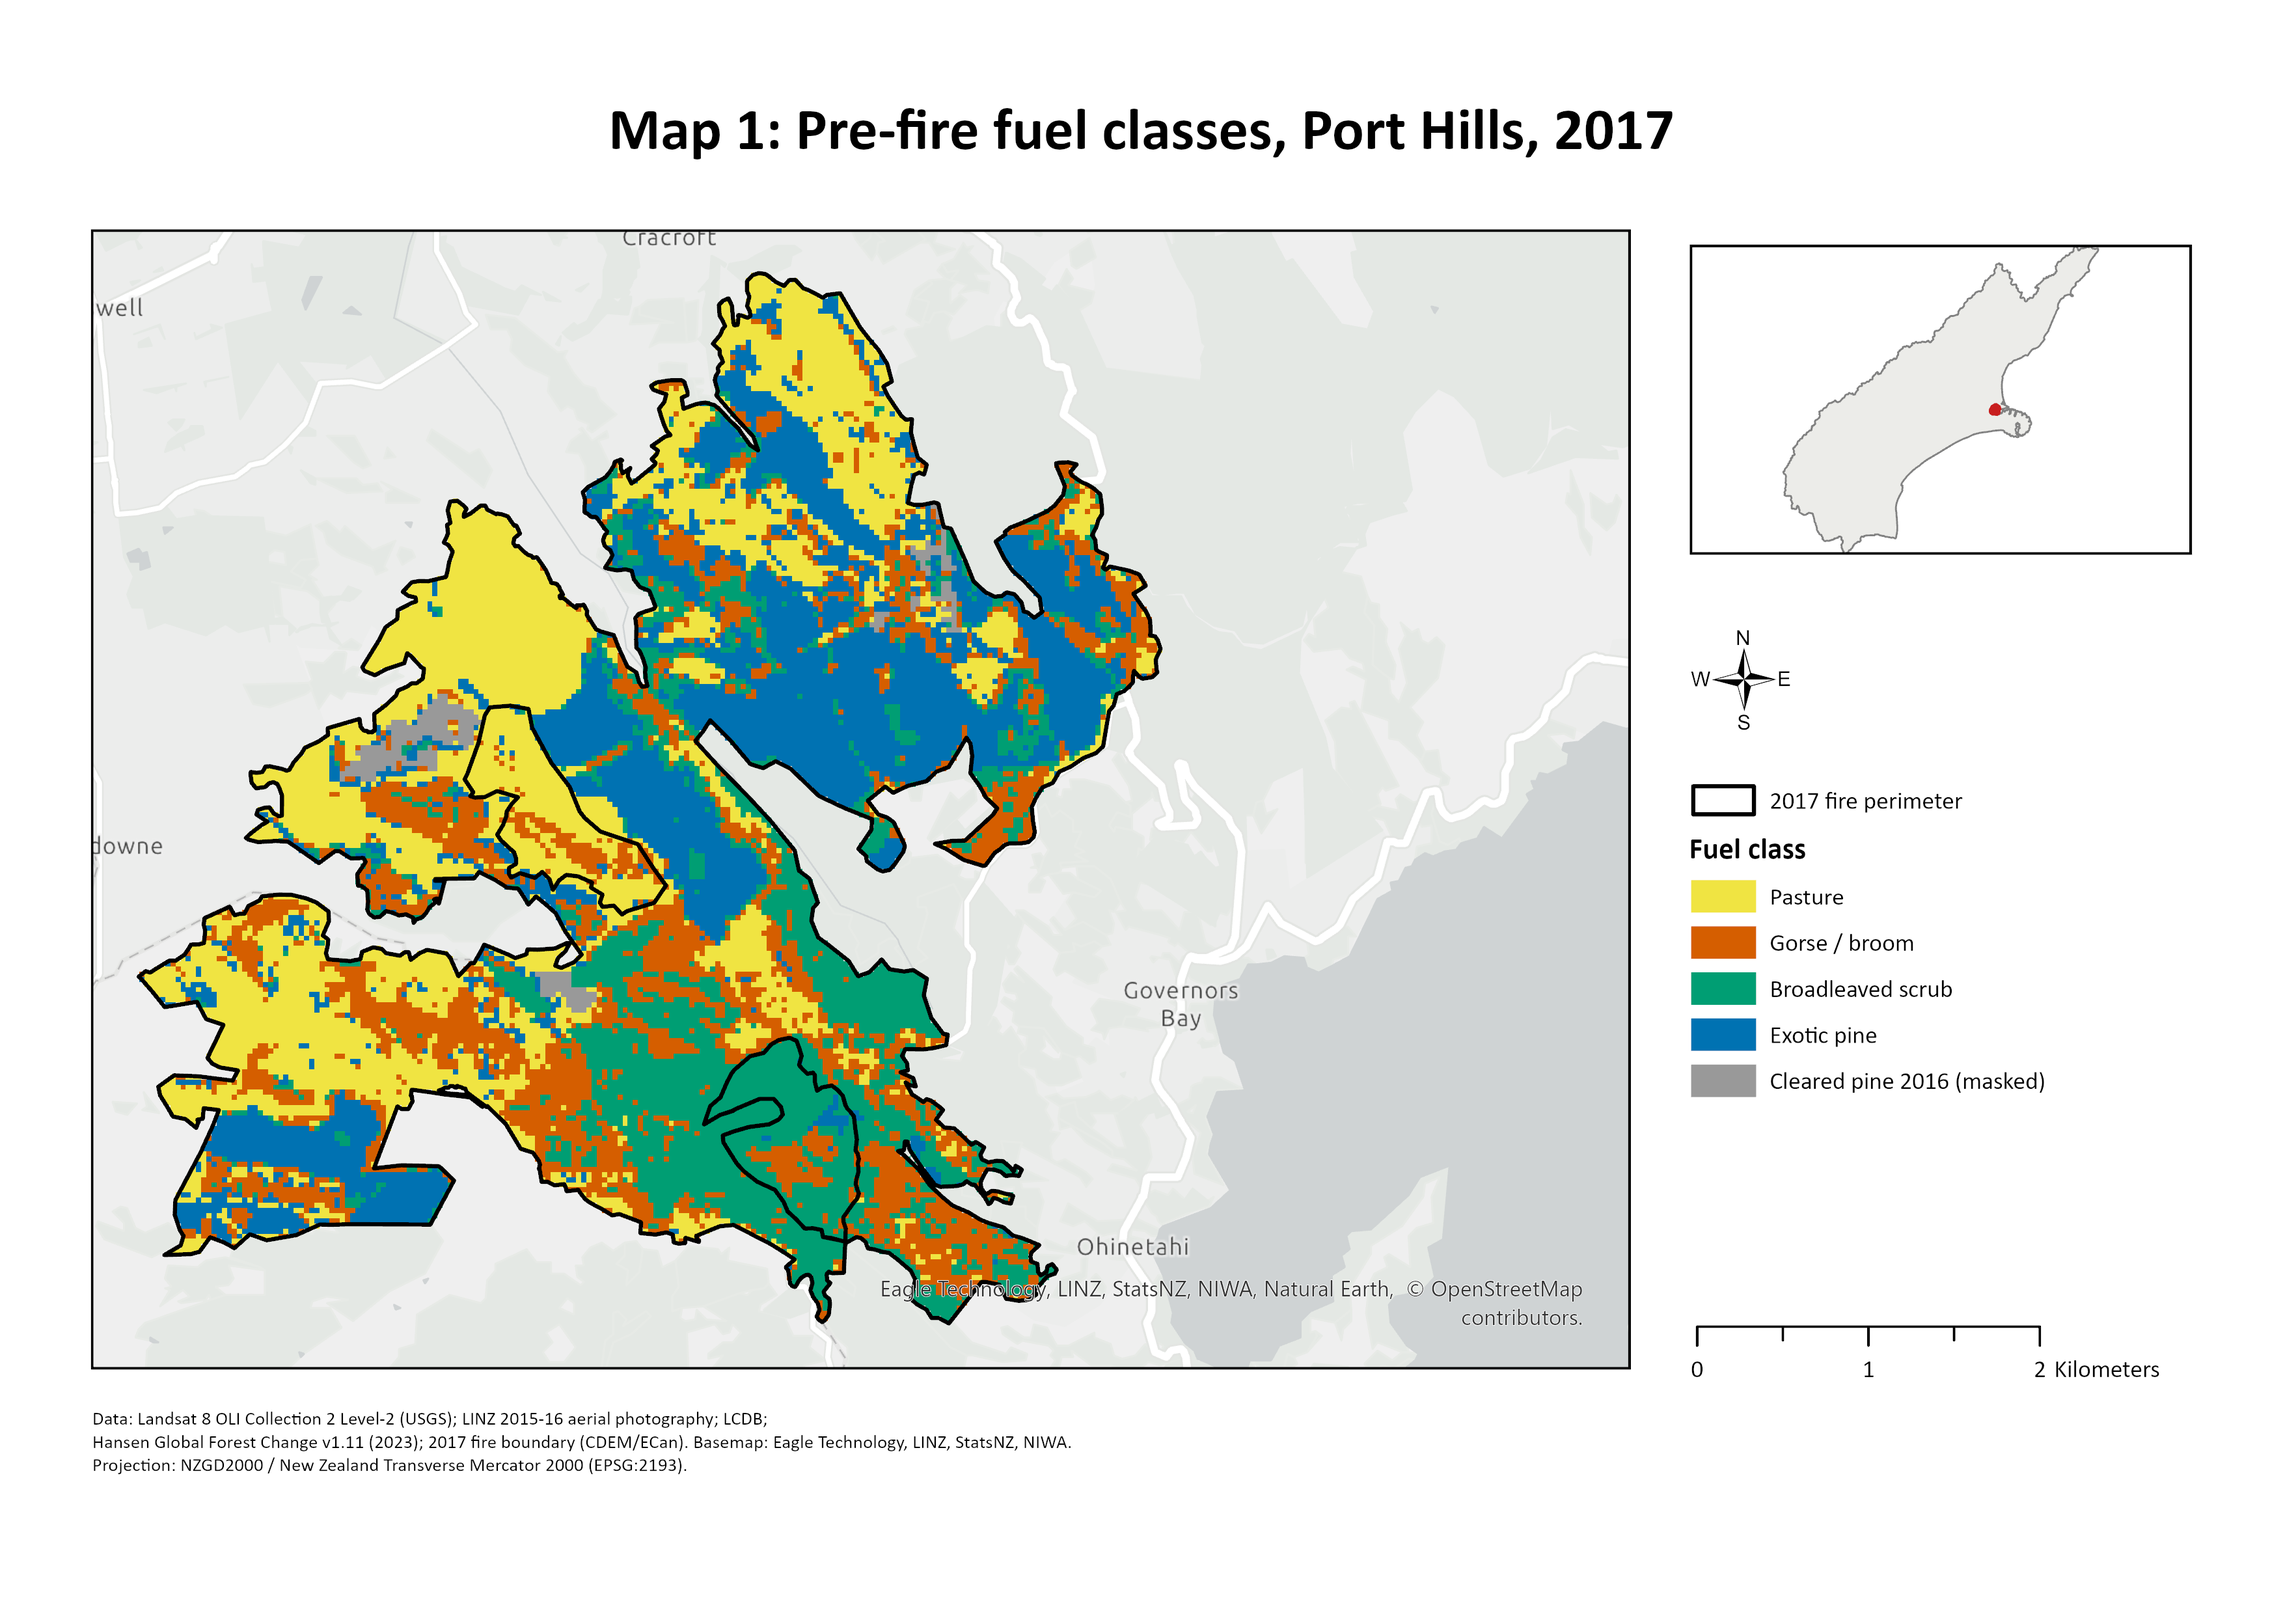
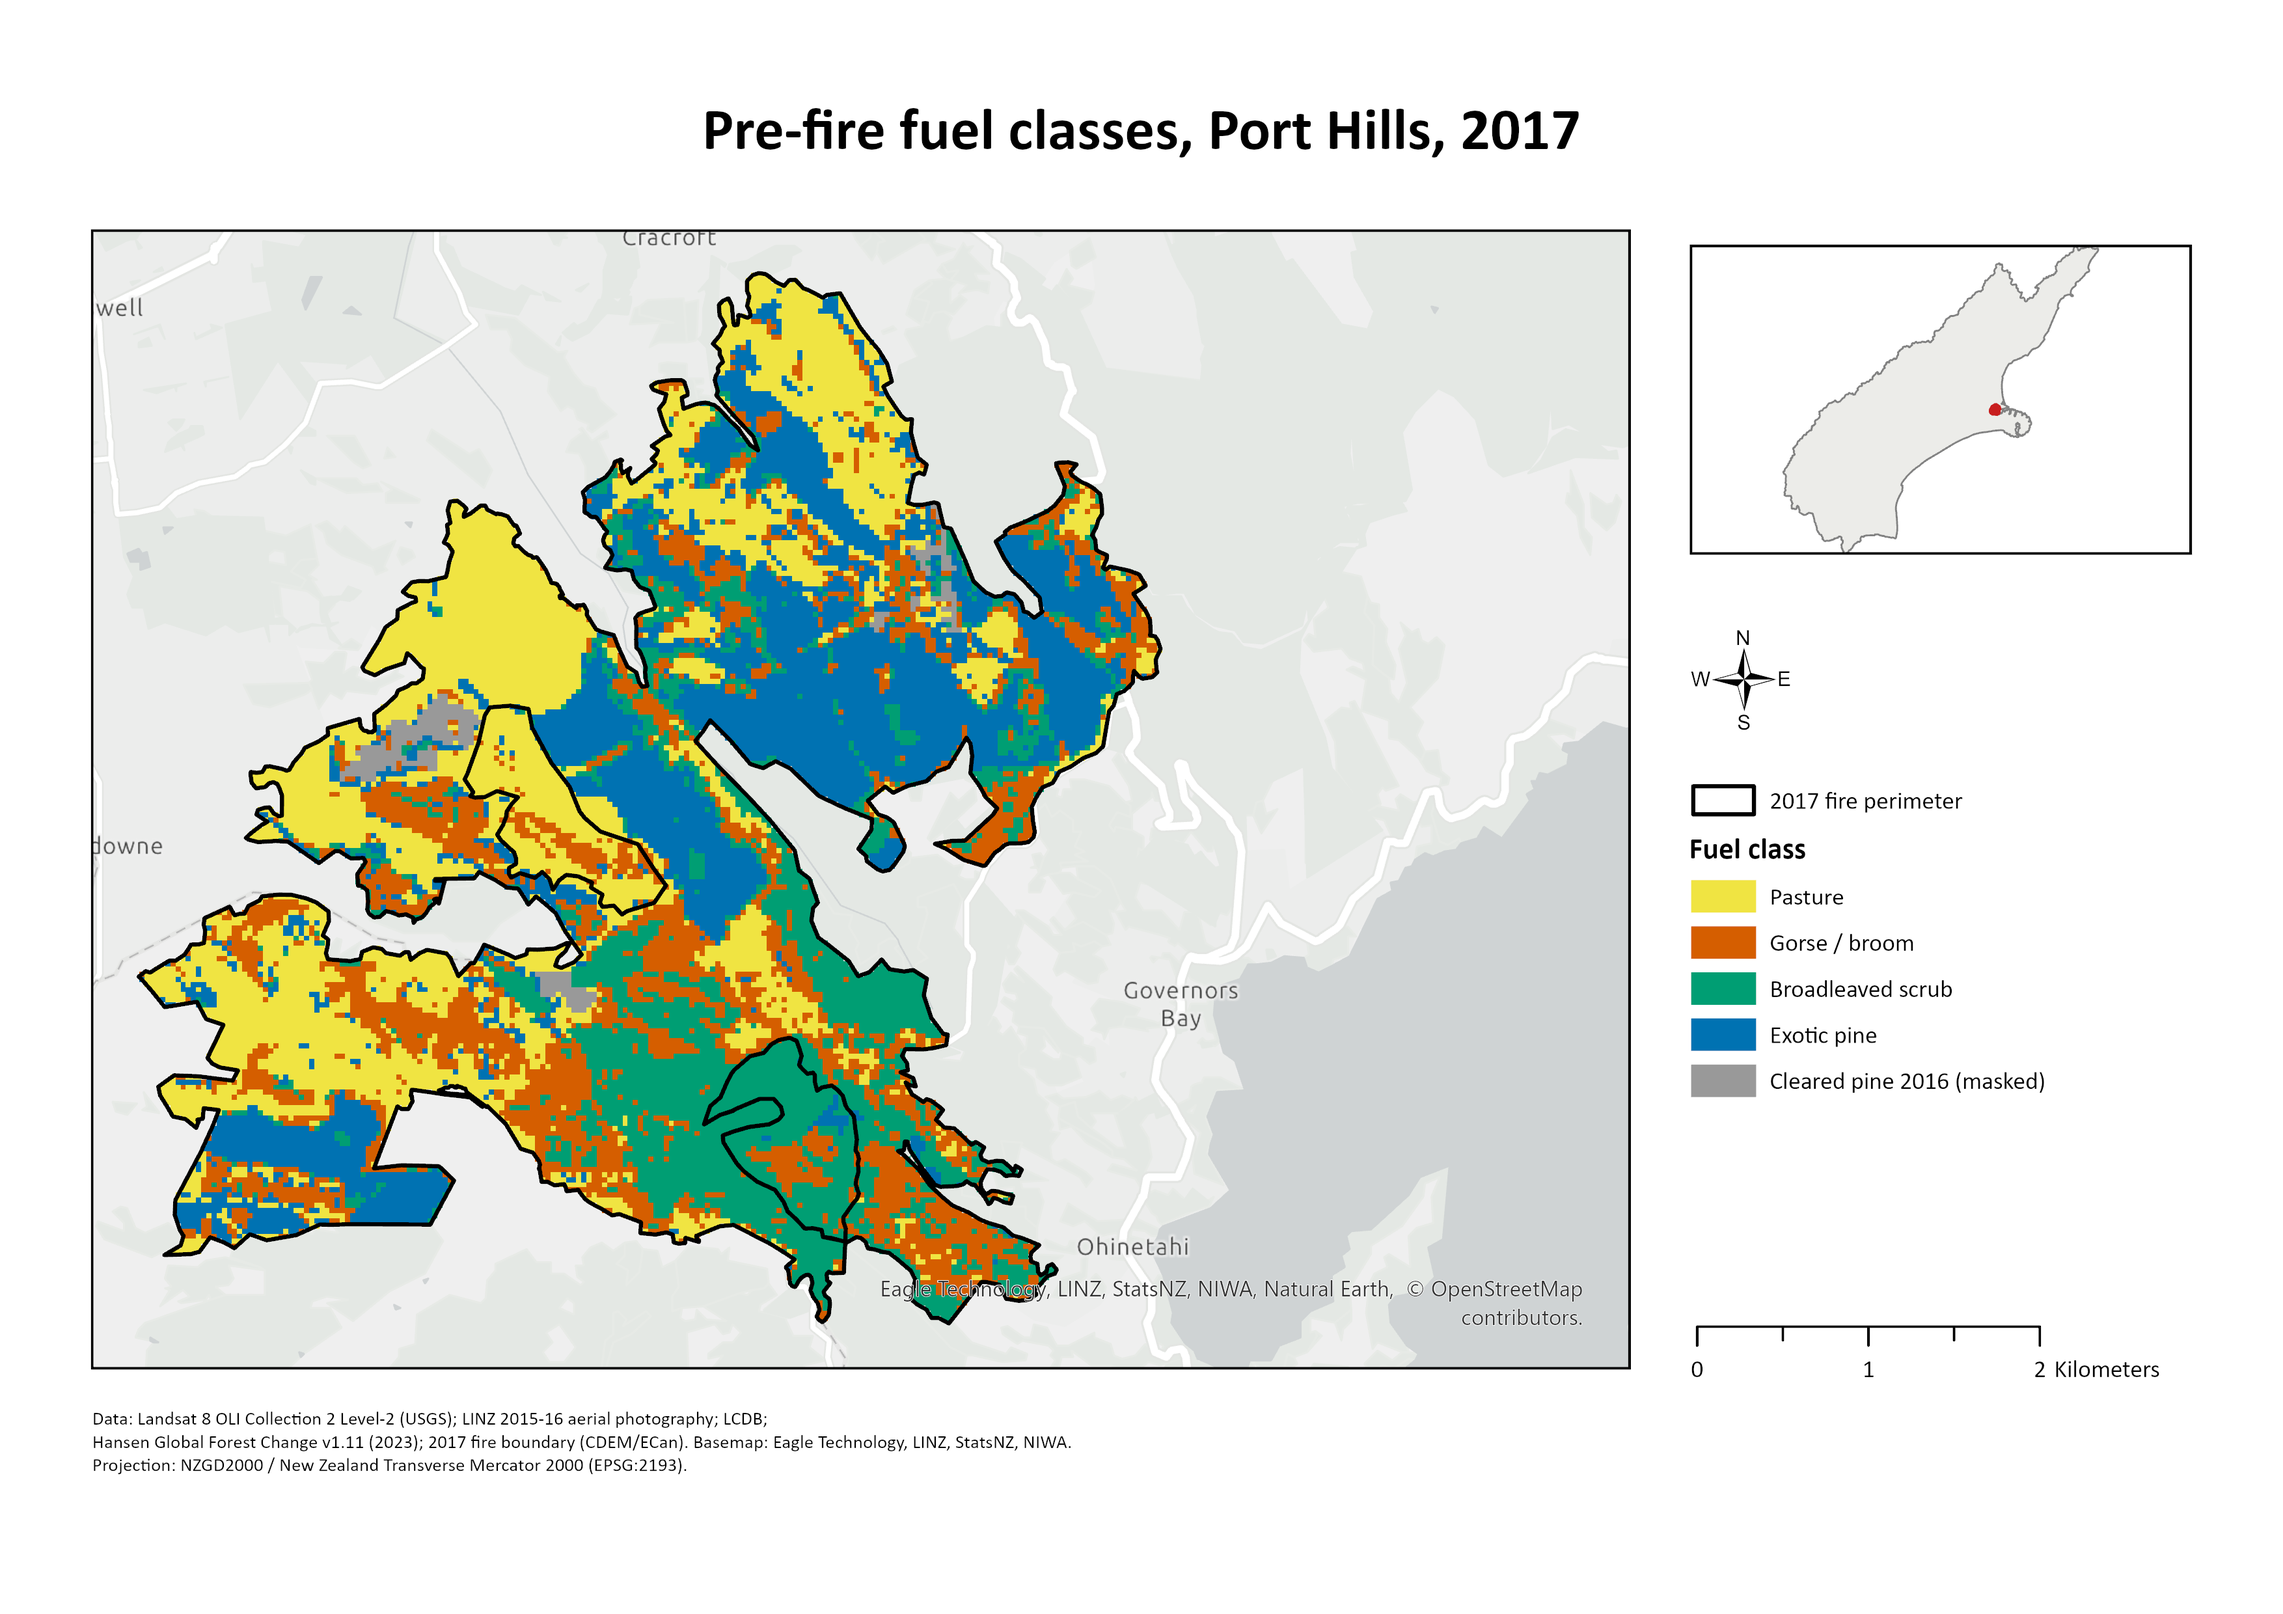
R7: drop 'Map N:' numbering from map titles so figures can be reordered in the report

Changed region(s): [[0.2486, 0.0621, 0.7457, 0.0931]]

diff --git a/scripts/44_build_all_maps.py b/scripts/44_build_all_maps.py
@@ -379,8 +379,8 @@ def build(lname, title, m, cls, per, credits, want_locator,
     print("  ok", lname)
 
 
-TITLE1 = "Map 1: Pre-fire fuel classes, Port Hills, 2017"
-TITLE2 = "Map 2: Burn severity and unburnt refugia, Port Hills, 2017"
+TITLE1 = "Pre-fire fuel classes, Port Hills, 2017"
+TITLE2 = "Burn severity and unburnt refugia, Port Hills, 2017"
 
 # name, palette, hillshade, transparency, locator, floating panel, extra notes
 SPECS_MAP1 = [

diff --git a/scripts/45_build_cleaning_map.py b/scripts/45_build_cleaning_map.py
@@ -258,7 +258,7 @@ strip_attribution(m3)
 
 build_layout(
     "Map3_DataCleaning",
-    "Map 3: Spatial data cleaning of the 30 m grid, Port Hills fire, 2017",
+    "Spatial data cleaning of the 30 m grid, Port Hills fire, 2017",
     m3, [c3, p3],
     ["Data: Landsat 8 OLI Collection 2 Level-2 (USGS); CDEM/ECan 2017 fire boundary. "
      "Basemap: Eagle Technology, LINZ, StatsNZ, NIWA.",
